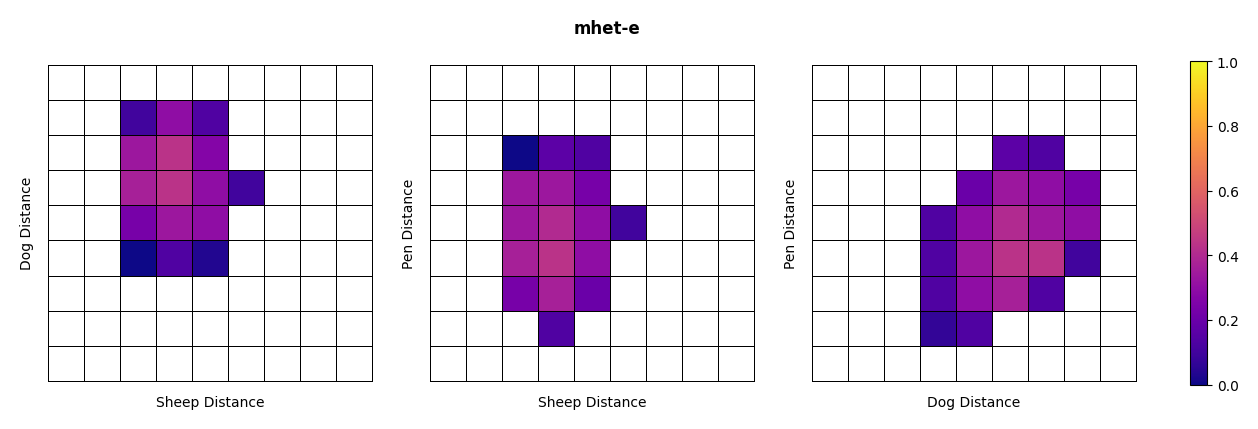
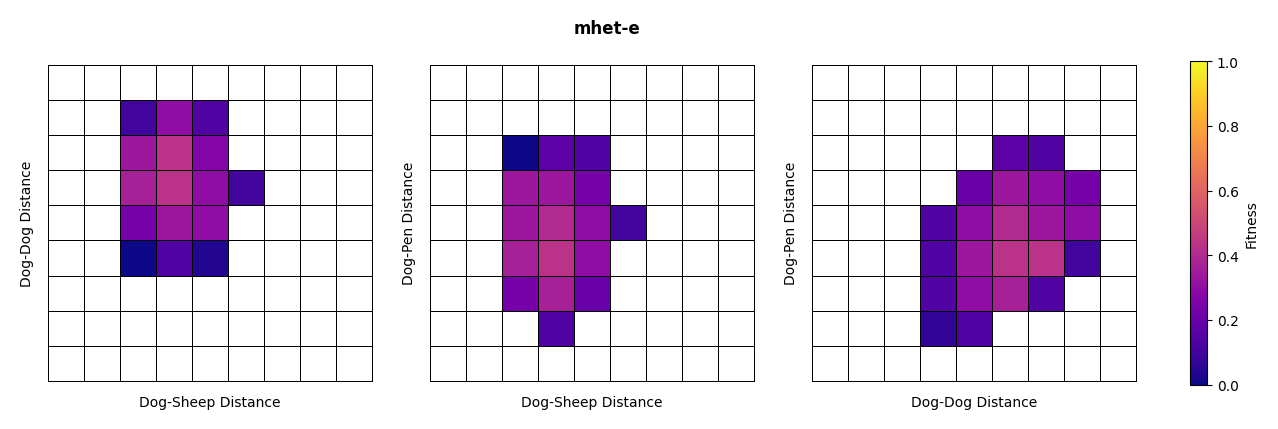
Add allocation and update behaviour archive maps

diff --git a/process/plot_archive.py b/process/plot_archive.py
@@ -34,7 +34,7 @@ def graph(prefix, runs=20, generations=200):
     CHECKPOINT_FILENAME = folder + "/checkpoints/gen_" + str(generations) + ".pkl"
     if os.path.exists(CHECKPOINT_FILENAME):
       count += 1
-      if "shom" in folder or "shet" in folder:
+      if "shom" in folder or "shet" in folder or "amhet" in folder:
         grid = prja.project(CHECKPOINT_FILENAME)
         fitness_grid = grid.quality_array
       else: 
@@ -63,7 +63,7 @@ def graph(prefix, runs=20, generations=200):
       print("Skipping run: " + CHECKPOINT_FILENAME + " is missing.")
 
   plane_name = ["sd", "sp", "dp"]
-  plane_labels = [["Sheep Distance", "Dog Distance"], ["Sheep Distance", "Pen Distance"], ["Dog Distance", "Pen Distance"]]
+  plane_labels = [["Dog-Sheep Distance", "Dog-Dog Distance"], ["Dog-Sheep Distance", "Dog-Pen Distance"], ["Dog-Dog Distance", "Dog-Pen Distance"]]
 
   fig, axs = plt.subplots(ncols=4, gridspec_kw=dict(width_ratios=[4,4,4,0.2]), figsize=(15, 4.2))
   plt.suptitle(AGGREGATE_PREFIX, weight="bold")
@@ -75,7 +75,7 @@ def graph(prefix, runs=20, generations=200):
     # fix cut off lines
     grid.set_xlim(-0.1, 9.1)
     grid.set_ylim(-0.1, 9.1)
-  fig.colorbar(axs[-2].collections[0], cax=axs[-1])
+  fig.colorbar(axs[-2].collections[0], cax=axs[-1], label="Fitness")
   plt.savefig("output/archive_" + AGGREGATE_PREFIX + ".png", bbox_inches='tight', pad_inches=0.2)
 
   print("Results plotted for " + str(count) + " run(s).")
